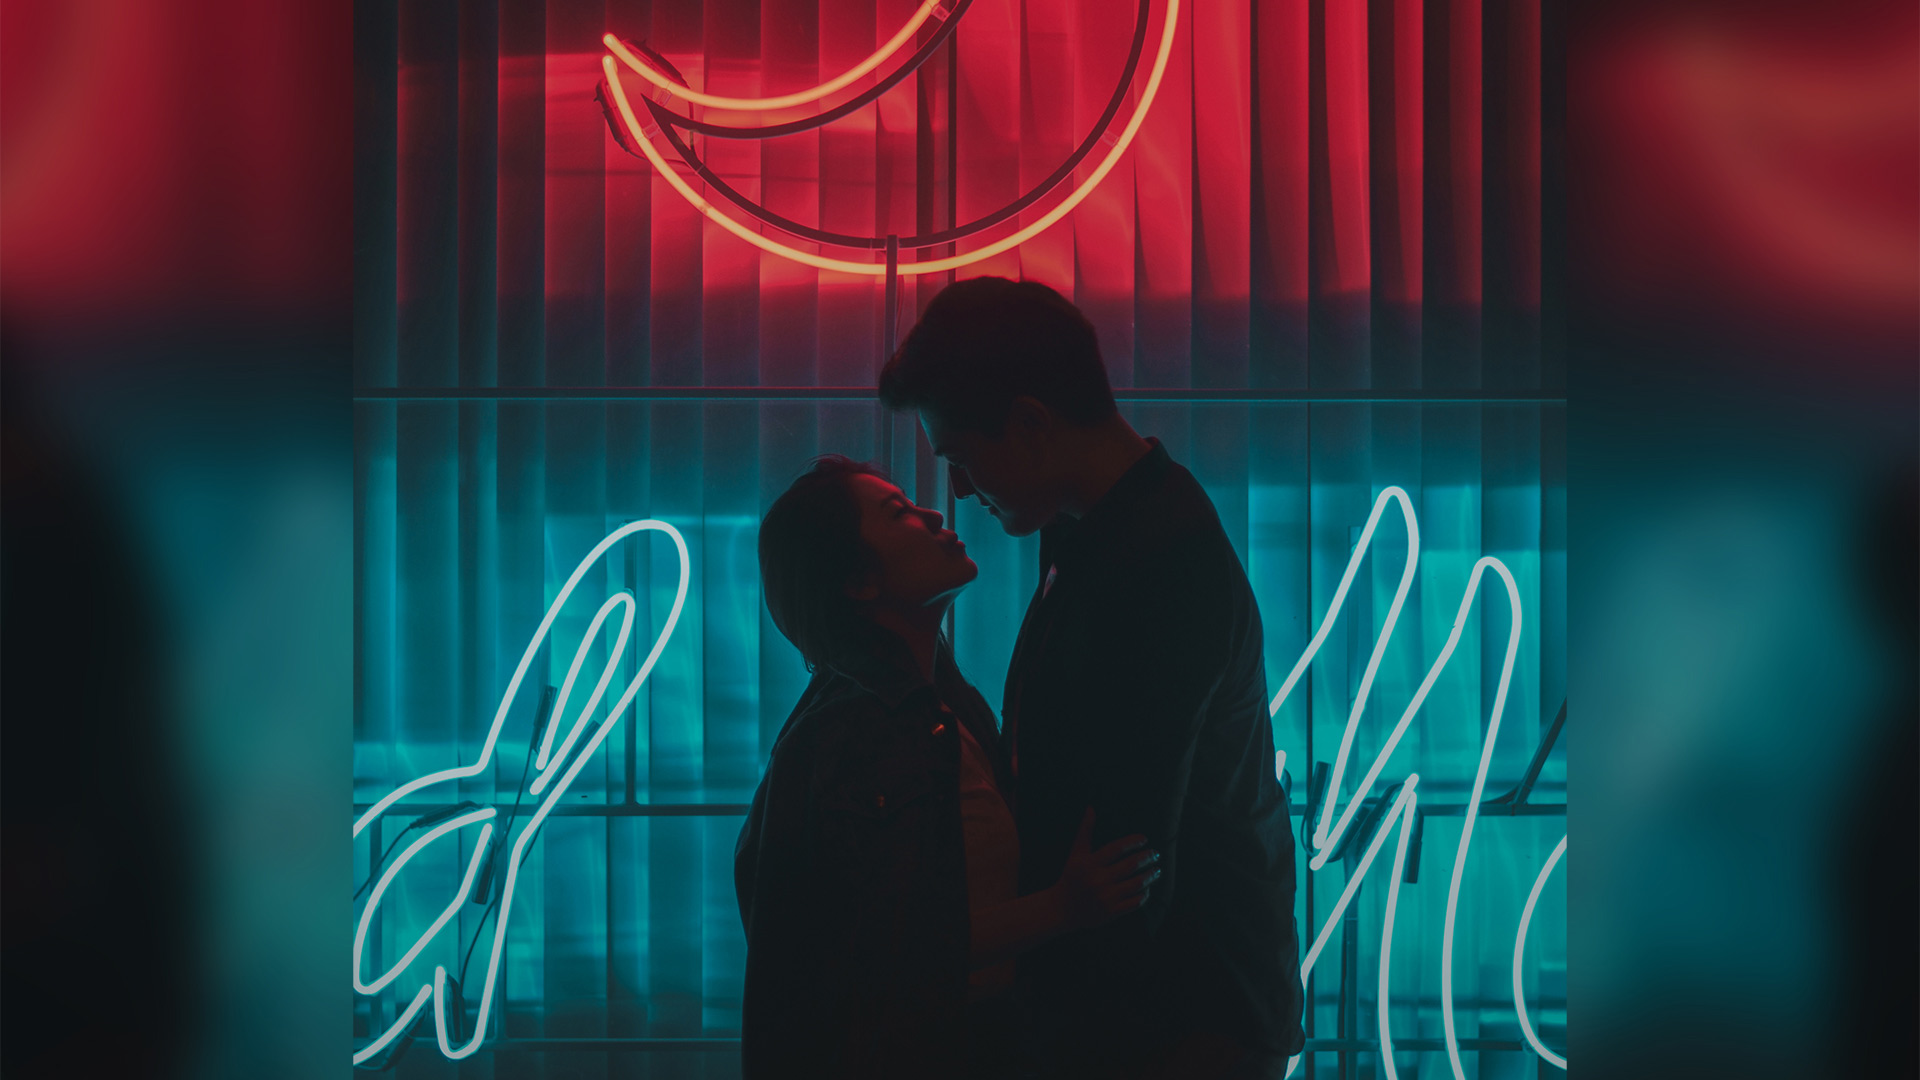
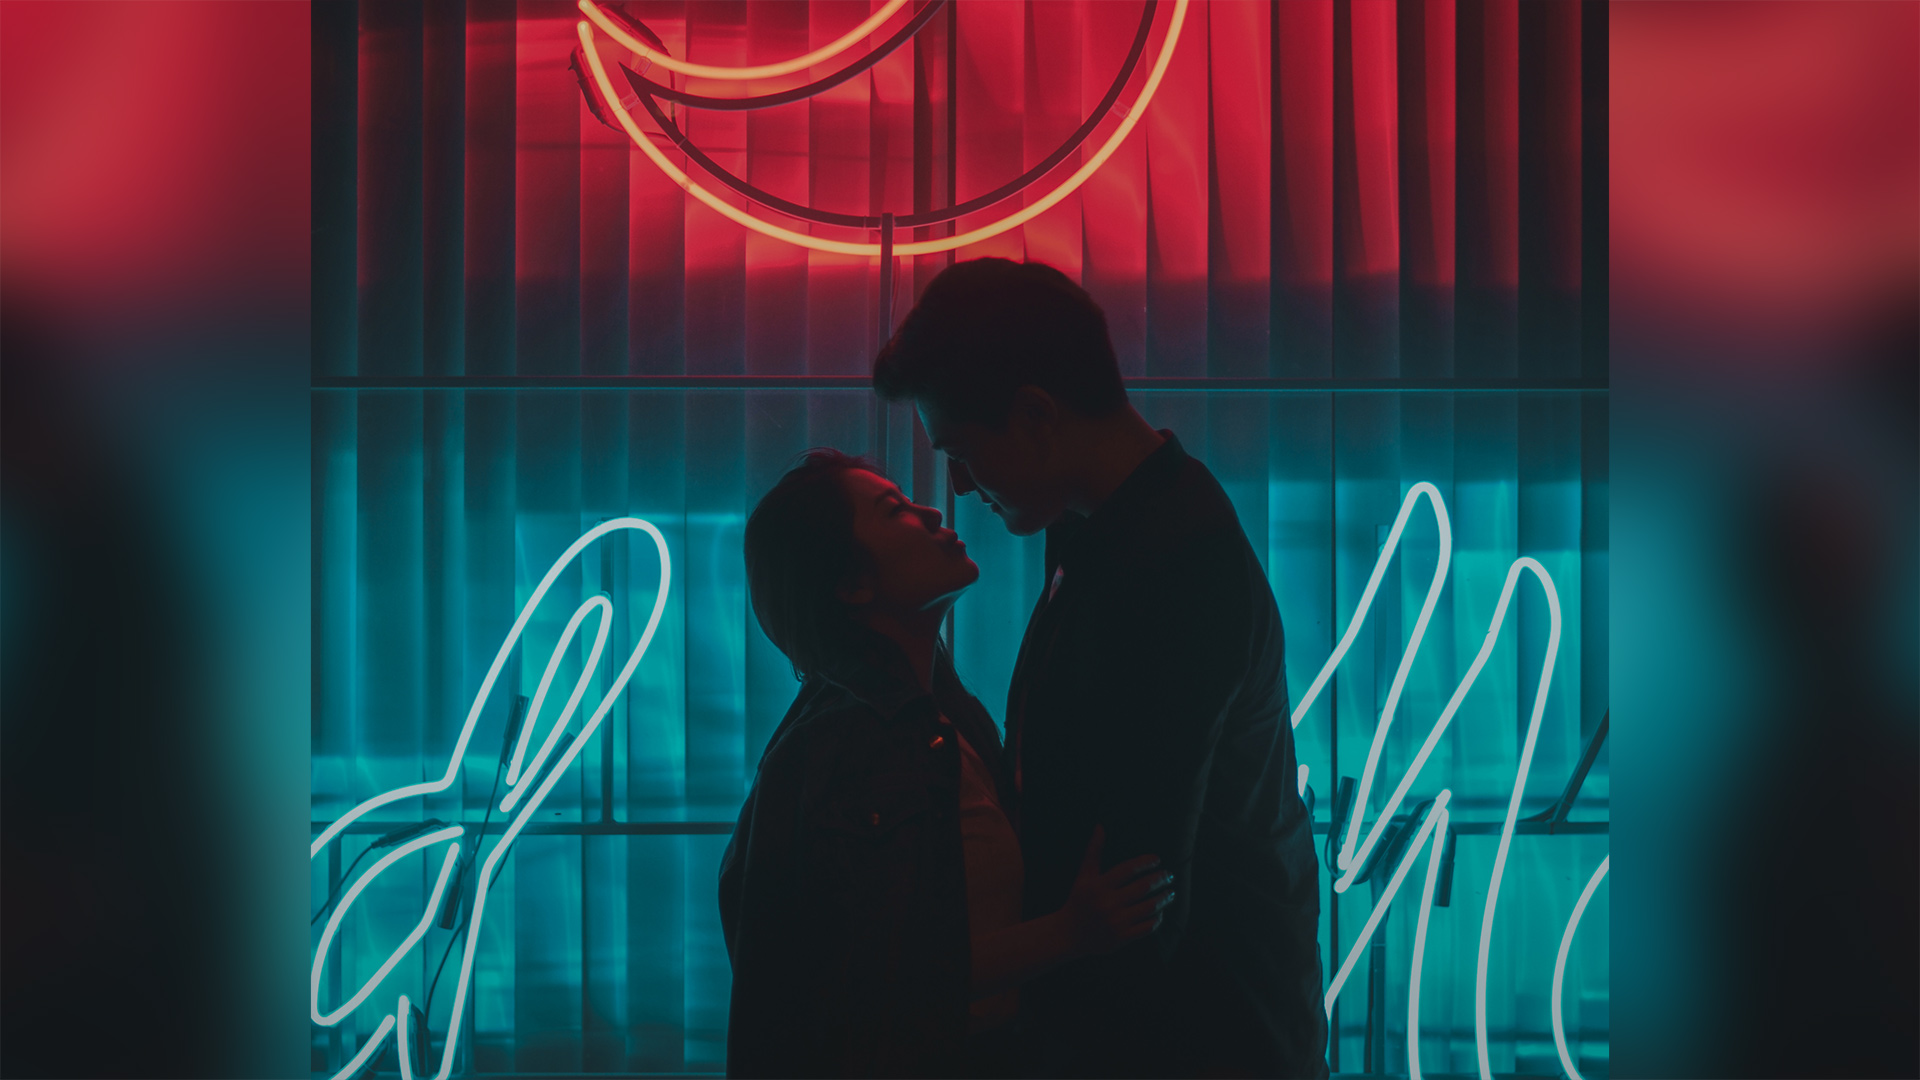
Optimize homescreen for 2k - Close #5

diff --git a/index.html b/index.html
@@ -48,6 +48,8 @@
                 <ul class="list-reset flex slider-width j-img-list">
                     <li>
                         <picture>
+                            <source srcset="img/homescreen/2k/homescreen_1_2k.jpg"
+                                media="(min-width: 1921px)">
                             <source srcset="img/homescreen/desktop/homescreen_desktop_1.jpg"
                                 media="(min-width: 1200px)">
                             <source srcset="img/homescreen/tablet/homescreen_tablet_1.jpg" media="(min-width: 768px)">
@@ -59,6 +61,8 @@
                     </li>
                     <li>
                         <picture>
+                            <source srcset="img/homescreen/2k/homescreen_2_2k.jpg"
+                            media="(min-width: 1921px)">
                             <source srcset="img/homescreen/desktop/homescreen_desktop_2.jpg"
                                 media="(min-width: 1200px)">
                             <source srcset="img/homescreen/tablet/homescreen_tablet_2.jpg" media="(min-width: 768px)">
@@ -69,6 +73,8 @@
                     </li>
                     <li>
                         <picture>
+                            <source srcset="img/homescreen/2k/homescreen_3_2k.jpg"
+                            media="(min-width: 1921px)">
                             <source srcset="img/homescreen/desktop/homescreen_desktop_3.jpg"
                                 media="(min-width: 1200px)">
                             <source srcset="img/homescreen/tablet/homescreen_tablet_3.jpg" media="(min-width: 768px)">
@@ -79,6 +85,8 @@
                     </li>
                     <li>
                         <picture>
+                            <source srcset="img/homescreen/2k/homescreen_4_2k.jpg"
+                            media="(min-width: 1921px)">
                             <source srcset="img/homescreen/desktop/homescreen_desktop_4.jpg"
                                 media="(min-width: 1200px)">
                             <source srcset="img/homescreen/tablet/homescreen_tablet_4.jpg" media="(min-width: 768px)">
@@ -125,7 +133,6 @@
             </div>
         </div>
     </main>
-
 </body>
 
 </html>

diff --git a/style/style.css b/style/style.css
@@ -594,11 +594,4 @@ header {
     display: block;
   }
 }
-
-@media (min-width: 1920px) {
-  body {
-    max-width: 1920px;
-    margin: 0 auto;
-  }
-}
 /*# sourceMappingURL=style.css.map */

diff --git a/style/style.scss b/style/style.scss
@@ -145,10 +145,3 @@
     }
 }
 
-@media (min-width: 1920px) {
-    body {
-        max-width: 1920px;
-        margin: 0 auto;
-    }
-
-}
